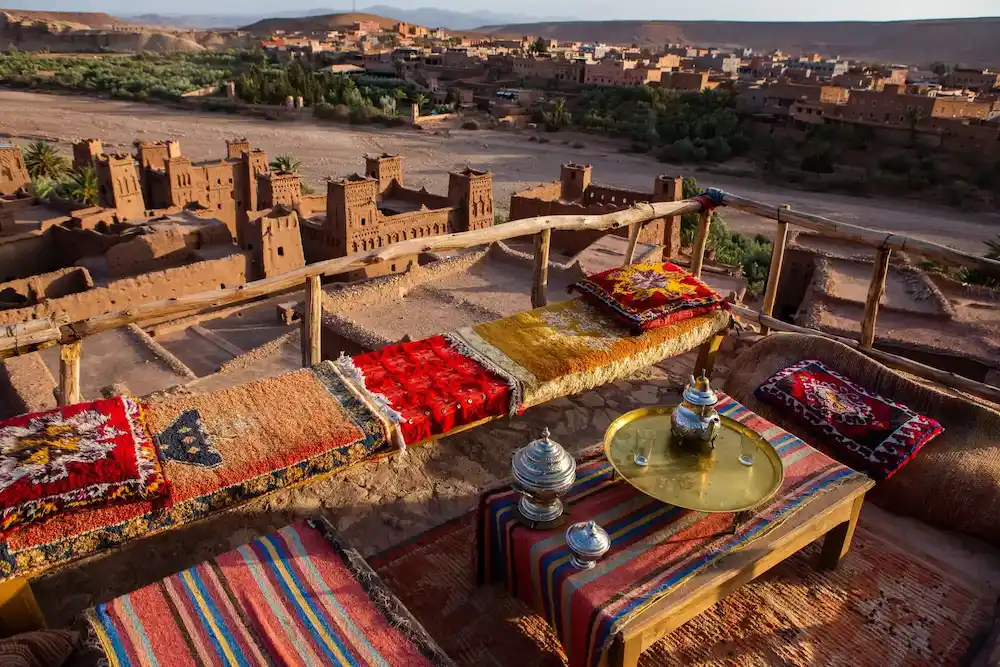
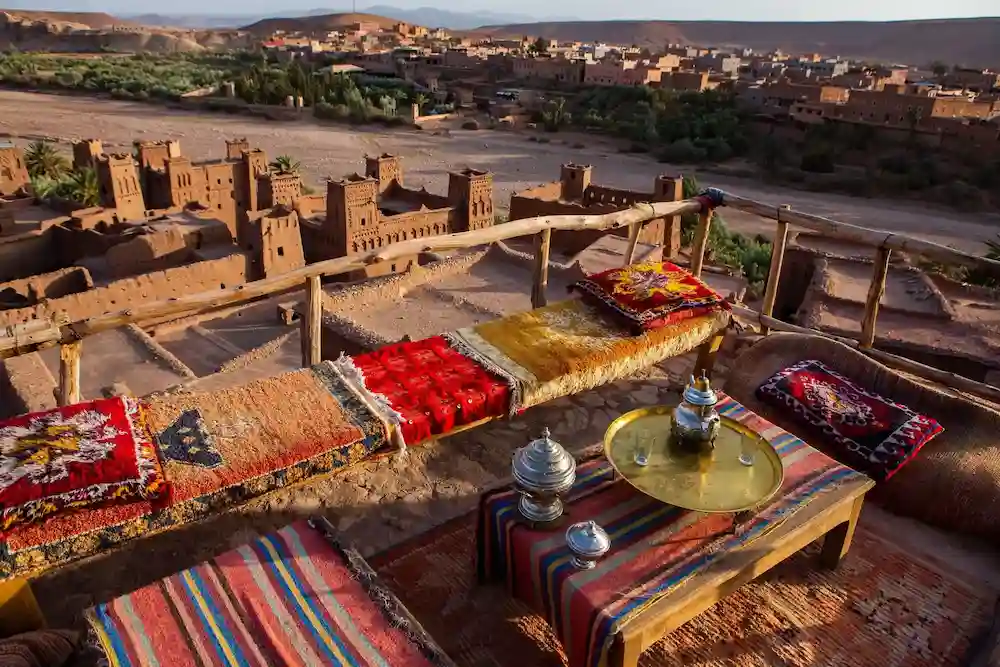
fef

diff --git a/next.config.ts b/next.config.ts
@@ -1,7 +1,55 @@
 import type { NextConfig } from "next";
 
 const nextConfig: NextConfig = {
-  /* config options here */
+  // Optimize barrel imports — eliminates 200-800ms cold start cost per library
+  experimental: {
+    optimizePackageImports: ["lucide-react", "react-icons"],
+  },
+
+  // Image optimization: serve AVIF + WebP automatically
+  images: {
+    formats: ["image/avif", "image/webp"],
+    minimumCacheTTL: 60 * 60 * 24 * 365, // 1 year
+    deviceSizes: [640, 750, 828, 1080, 1200, 1920],
+    imageSizes: [16, 32, 48, 64, 96, 128, 256, 384],
+  },
+
+  // Compress responses on Vercel edge
+  compress: true,
+
+  // Security + performance headers
+  async headers() {
+    return [
+      {
+        source: "/(.*)",
+        headers: [
+          // Prevent MIME sniffing
+          { key: "X-Content-Type-Options", value: "nosniff" },
+          // Prevent clickjacking
+          { key: "X-Frame-Options", value: "SAMEORIGIN" },
+          // Force HTTPS for 1 year, include subdomains
+          {
+            key: "Strict-Transport-Security",
+            value: "max-age=31536000; includeSubDomains",
+          },
+          // Control referrer info
+          { key: "Referrer-Policy", value: "strict-origin-when-cross-origin" },
+          // Disable FLoC / Topics API
+          { key: "Permissions-Policy", value: "interest-cohort=()" },
+        ],
+      },
+      // Long-cache static assets in public/
+      {
+        source: "/(.*)\\.(webp|png|jpg|jpeg|svg|ico|woff2|woff)",
+        headers: [
+          {
+            key: "Cache-Control",
+            value: "public, max-age=31536000, immutable",
+          },
+        ],
+      },
+    ];
+  },
 };
 
 export default nextConfig;

diff --git a/src/app/[lang]/page.tsx b/src/app/[lang]/page.tsx
@@ -1,13 +1,17 @@
+import dynamic from 'next/dynamic';
 import Header from '@/components/Header';
 import Hero from '@/components/Hero';
-import Services from '@/components/Services';
-import TourGrid from '@/components/TourGrid';
-import FAQ from '@/components/FAQ';
-import DayTrips from '@/components/DayTrips';
-import Destinations from '@/components/Destinations';
-import ZahriToursSection from '@/components/ZahriToursSection';
-import Footer from '@/components/Footer';
-import FloatingElements from '@/components/FloatingElements';
+
+// Below-the-fold: lazy-load to reduce initial JS bundle
+const Services = dynamic(() => import('@/components/Services'));
+const TourGrid = dynamic(() => import('@/components/TourGrid'));
+const FAQ = dynamic(() => import('@/components/FAQ'));
+const DayTrips = dynamic(() => import('@/components/DayTrips'));
+const Destinations = dynamic(() => import('@/components/Destinations'));
+const ZahriToursSection = dynamic(() => import('@/components/ZahriToursSection'));
+const Footer = dynamic(() => import('@/components/Footer'));
+// FloatingElements is scroll-driven (client-only via useEffect)
+const FloatingElements = dynamic(() => import('@/components/FloatingElements'));
 
 export default function Home() {
   return (
@@ -27,3 +31,4 @@ export default function Home() {
     </>
   );
 }
+

diff --git a/src/app/[lang]/partners/page.tsx b/src/app/[lang]/partners/page.tsx
@@ -1,11 +1,15 @@
+import dynamic from 'next/dynamic';
+import ReactDOM from 'react-dom';
 import Header from '@/components/Header';
-import Footer from '@/components/Footer';
-import FloatingElements from '@/components/FloatingElements';
 import styles from './Partners.module.css';
 import Link from 'next/link';
 import { Metadata } from 'next';
-import PartnersForm from './PartnersForm';
 import { translations, Language } from '@/lib/translations';
+
+// Lazy-load heavy below-fold client components
+const PartnersForm = dynamic(() => import('./PartnersForm'));
+const Footer = dynamic(() => import('@/components/Footer'));
+const FloatingElements = dynamic(() => import('@/components/FloatingElements'));
 
 export async function generateMetadata({ params }: { params: Promise<{ lang: string }> }): Promise<Metadata> {
     const { lang } = await params;
@@ -31,6 +35,10 @@ export default async function PartnersPage({ params }: { params: Promise<{ lang:
 
     // Helper to get localized path
     const getPath = (path: string) => `/${language}${path === '/' ? '' : path}`;
+
+    // Preload critical mobile background image via React DOM resource hint
+    // (works correctly with Next.js streaming SSR unlike raw <link>)
+    ReactDOM.preload('/Traditional-low.webp', { as: 'image', media: '(max-width: 768px)' });
 
     return (
         <>

diff --git a/src/components/Hero.tsx b/src/components/Hero.tsx
@@ -193,6 +193,10 @@ export default function Hero(props: { imageUrl?: string }) {
                 if (index === currentImageIndex) statusClass = styles.active;
                 else if (index === prevImageIndex) statusClass = styles.prev;
 
+                // Only the first image is priority (LCP candidate).
+                // All others are lazy-loaded to avoid wasting bandwidth on slideshow images.
+                const isFirst = index === 0;
+
                 return (
                     <div key={src} className={`${styles.bgImageContainer} ${statusClass}`}>
                         <Image
@@ -200,12 +204,14 @@ export default function Hero(props: { imageUrl?: string }) {
                             alt="ZahriTours Background"
                             fill
                             className={styles.heroBg}
-                            priority={index === currentImageIndex || index === nextImageIndex}
+                            priority={isFirst}
+                            loading={isFirst ? undefined : 'lazy'}
                             sizes="100vw"
                         />
                     </div>
                 );
             })}
+
 
             <div className={styles.overlay} />
 

diff --git a/src/app/[lang]/layout.tsx b/src/app/[lang]/layout.tsx
@@ -3,6 +3,7 @@ import { Poppins } from 'next/font/google';
 import '../globals.css';
 import { LanguageProvider } from '@/context/LanguageContext';
 import SEOMetadata from '@/components/SEOMetadata';
+import ReactDOM from 'react-dom';
 
 const poppins = Poppins({
     weight: ['400', '500', '600', '700'],
@@ -85,6 +86,12 @@ export default async function LocaleLayout({
             "addressCountry": "MA"
         }
     };
+
+    // Preconnect to Google Fonts origin to reduce font load latency
+    ReactDOM.preconnect('https://fonts.googleapis.com');
+    ReactDOM.preconnect('https://fonts.gstatic.com', { crossOrigin: 'anonymous' });
+    // Preload the hero image (LCP candidate) for both locales
+    ReactDOM.preload('/hero-marrakech.webp', { as: 'image', fetchPriority: 'high' });
 
     return (
         <html lang={lang} className={`${poppins.variable}`}>

diff --git a/src/app/[lang]/partners/Partners.module.css b/src/app/[lang]/partners/Partners.module.css
@@ -890,6 +890,8 @@
     .problemImageCol {
         background-image: url('/Traditional-low.webp');
         height: 320px;
+        /* Warm sand placeholder — shown immediately while the webp loads */
+        background-color: #c9b49a;
     }
     
     .imageFadeOverlay {

diff --git a/src/components/FloatingElements.tsx b/src/components/FloatingElements.tsx
@@ -19,7 +19,7 @@ export default function FloatingElements({ hideWhatsappUntilScroll = false }: Fl
             }
         };
 
-        window.addEventListener('scroll', toggleVisibility);
+        window.addEventListener('scroll', toggleVisibility, { passive: true });
         return () => window.removeEventListener('scroll', toggleVisibility);
     }, []);
 